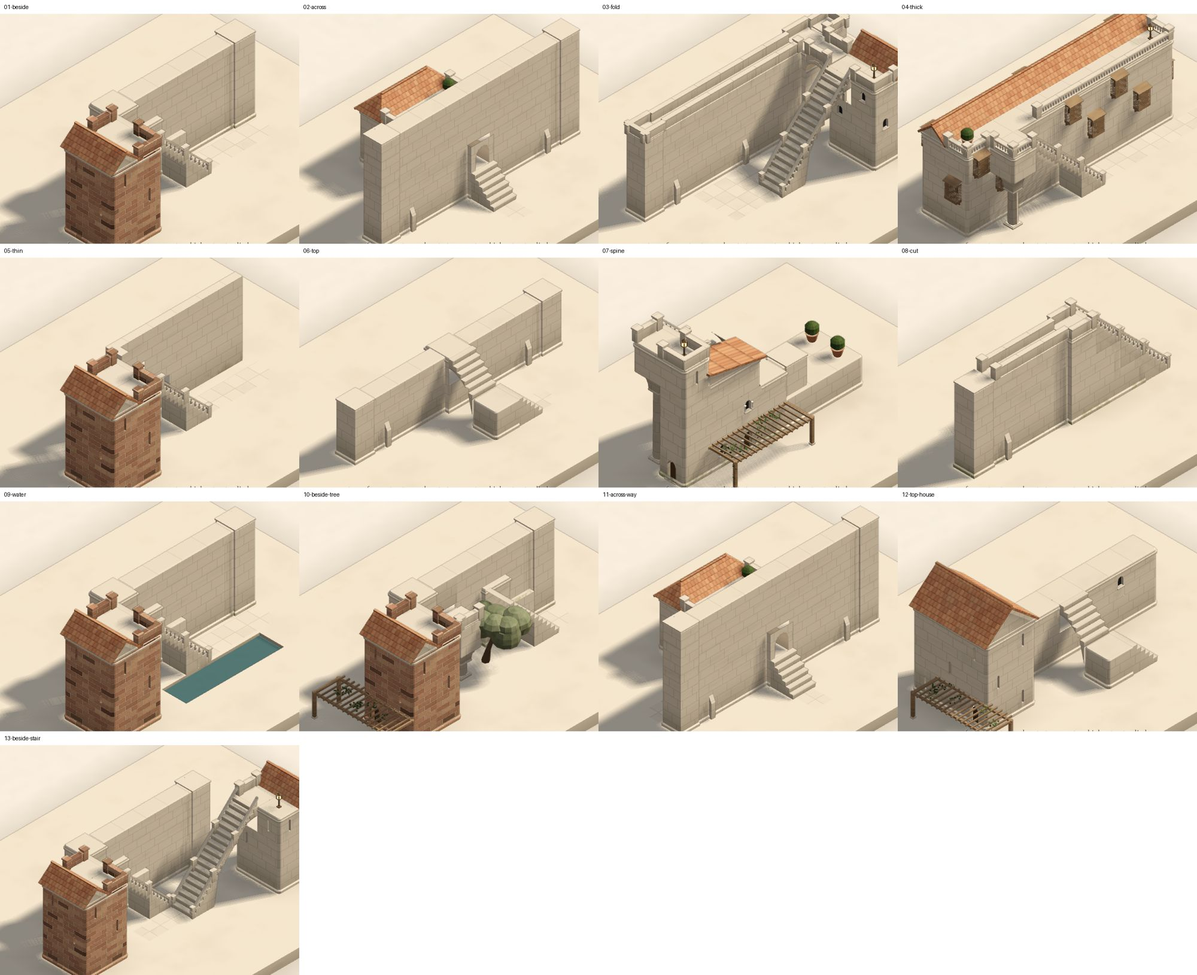
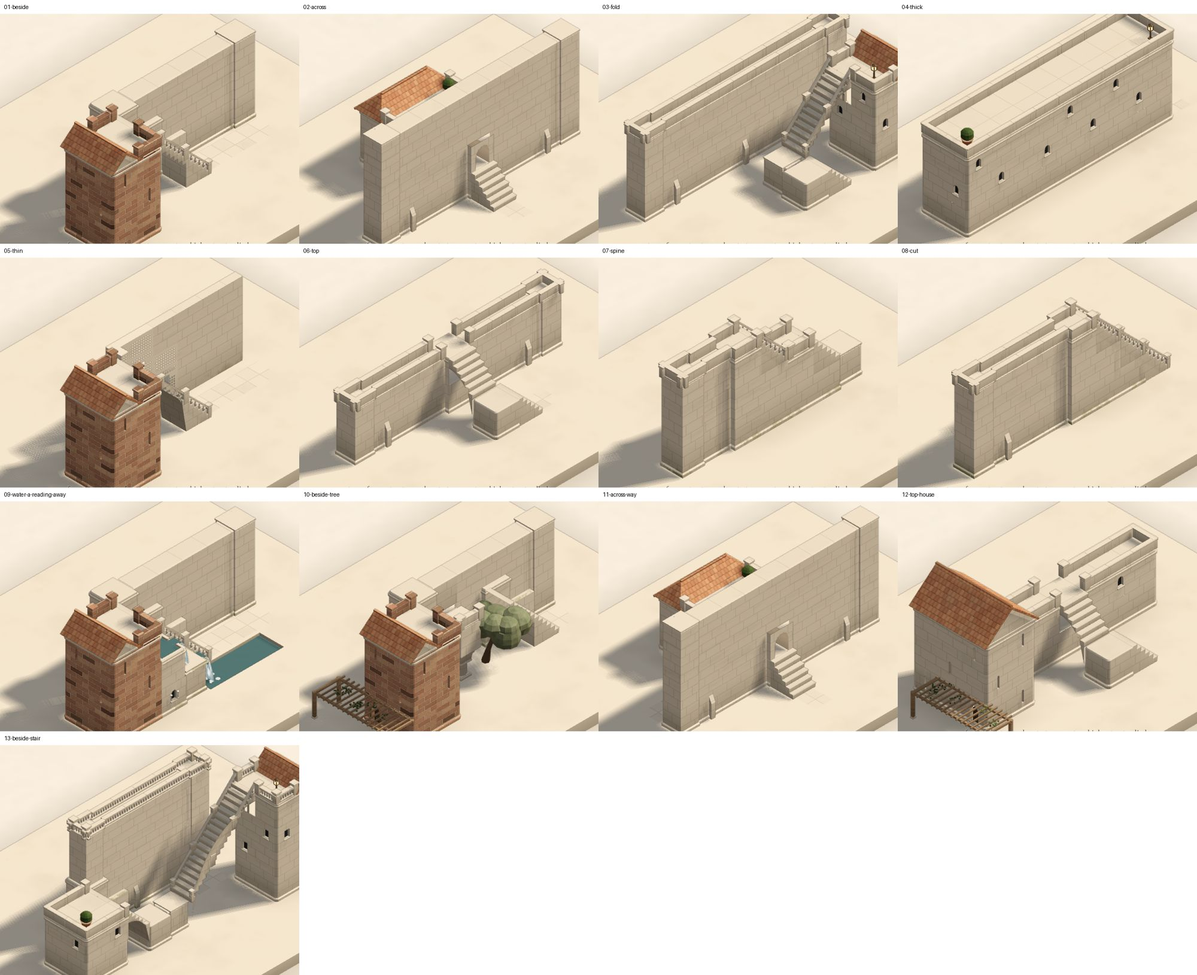
lab: wall x stair at its best: promenades, folds, dissolve, inside, water
Edge becomes surface: tops a way arrives on are promenades, walked along,
railed, a door where a house face meets them. Fold: a climb drawn folding
back that would be one flight is read as a switchback. Dissolve: a thin wall
carries no steps; beside a flight it's a screen. Inside implied: a stroke
over a house to its top goes in at a door and up inside (RULE.within). Water:
a new encounter, a flight beside water, a cascade of basins a reading away.
The atlas: 12 of 13 at their best as laid, the last a reading away.

Claude-Session: https://claude.ai/code/session_01D2Nx3PayKJtFYoab5A57H3

diff --git a/cells/lab/client/labyrinth/buildings.ts b/cells/lab/client/labyrinth/buildings.ts
@@ -29,7 +29,7 @@
  *   tower. Only on a plan that's a plain rectangle, for now. The hand can switch it (select), kept as a rule.
  */
 import { hash } from '../kit/rng';
-import { DIRS, RULE, isTower, key, unkey, type Cell, type World } from './model';
+import { DIRS, RULE, isTower, isWithin, key, unkey, type Cell, type World } from './model';
 import { navigate, standing, type Nav } from './nav';
 
 export type Roof = 'hipped' | 'gable' | 'shed' | 'dome';
@@ -80,7 +80,10 @@ function wingsOf(cols: Array<[number, number]>): Array<{ i0: number; i1: number;
   }
   return out;
 }
-export interface Buildings { list: Building[]; at: Map<string, Opening>; inside: Array<[Cell, Cell]>; of: Map<number, Building> }
+export interface Buildings { list: Building[]; at: Map<string, Opening>; inside: Array<[Cell, Cell]>; of: Map<number, Building>;
+  /** the raised tops a way the hand made arrives on, and what's walked on from there at its height (a wall's top become a
+   * promenade): places, by key */
+  promenade: Set<number> }
 
 const cache = new WeakMap<World, { v: number; b: Buildings }>();
 /** the buildings in a world (worked out once for each state of it) */
@@ -141,6 +144,11 @@ function find(w: World): Buildings {
   // (on the land, its ground at each column's own level)
   for (const v of nav.places) { const [k, i, j] = unkey(v); if (k === w.ground(i, j)) { ground.add(v); st.push(v); } }
   while (st.length) { const v = st.pop()!; for (const u of nav.next.get(v) ?? []) if (!ground.has(u)) { ground.add(u); st.push(u); } }
+  // (promenades: from where the hand's ways walk, up off the ground, on along the tops at that height (never down a
+  // stair or up one: a promenade is a level walk))
+  const promenade = new Set<number>(), pst: number[] = [];
+  for (const op of w.ops) if (!op.derived) for (const c of w.walks.get(op) ?? []) { const v = key(...c); if (c[0] > w.ground(c[1], c[2]) && nav.places.has(v) && !promenade.has(v)) { promenade.add(v); pst.push(v); } }
+  while (pst.length) { const v = pst.pop()!, [k] = unkey(v); for (const u of nav.next.get(v) ?? []) { const [ku, iu, ju] = unkey(u); if (ku === k && !promenade.has(u) && ku > w.ground(iu, ju) && w.stair(ku, iu, ju) < 0) { promenade.add(u); pst.push(u); } } }
   const chance = (p: number, ...n: number[]) => hash(w.seed, ...n) % 1000 < p * 1000;
   // (masses as a whole, whatever height each column of them reaches: one built across a slope, steps of it at
   // different heights, is read as stepping, each step a building of its own if the whole is deep)
@@ -199,12 +207,17 @@ function find(w: World): Buildings {
     // (its top: walked if a way arrives there from beyond it)
     const tops = cols.map(([x, z]) => key(h, x, z)).filter((v) => nav.places.has(v)), topSet = new Set(tops);
     // (a stair tower's top is always come to: that's what it's for, even where it's become part of what it climbs to)
-    const arrives = tops.some((v) => (nav.next.get(v) ?? []).some((u) => !topSet.has(u)) || served.has(v));
+    // (and one the hand climbs inside (`RULE.within`): its top walked, come to by its stair, its door where it was asked)
+    const within = cols.flatMap(([x, z]) => { const r = w.rules.get(key(baseOf(x, z), x, z)); return isWithin(r) ? [{ x, z, d: r! - RULE.within }] : []; });
+    const arrives = tops.some((v) => (nav.next.get(v) ?? []).some((u) => !topSet.has(u)) || served.has(v)) || within.length > 0;
     // (doors where ways arrive against its walls, at height)
     const placeAt = (c: Cell) => key(...c);
     // (above its own foot: a door from a way at height, or (set into a bank) from the hill above)
     // (not out onto another building's top: that's under its roof)
-    const upper = faces.filter((f) => f.plain && f.k > baseOf(f.i, f.j) && standing(w, ...f.out) && (!(anyH(f.out[1], f.out[2]) && height(f.out[1], f.out[2]) === f.k) || (!!stairTower && served.has(placeAt(f.out)))));
+    // (and onto a wall's top level with it only where that's walked, a promenade: never a door on to a wall that isn't)
+    const twoDeep = (x: number, z: number) => { const h = height(x, z); return [[1, 1], [1, -1], [-1, 1], [-1, -1]].some(([a, c]) => [[x + a, z], [x, z + c], [x + a, z + c]].every(([p, q]) => anyH(p, q) && height(p, q) === h)); };
+    const wallTop = (f: (typeof faces)[number]) => anyH(f.out[1], f.out[2]) && height(f.out[1], f.out[2]) === f.k && !twoDeep(f.out[1], f.out[2]);
+    const upper = faces.filter((f) => f.plain && f.k > baseOf(f.i, f.j) && standing(w, ...f.out) && (!(anyH(f.out[1], f.out[2]) && height(f.out[1], f.out[2]) === f.k) || (wallTop(f) && promenade.has(placeAt(f.out))) || (!!stairTower && served.has(placeAt(f.out)))));
     // (a stair inside, if a way at one of those doors, or on its top, can't be reached from the slab otherwise)
     const unreached = upper.some((f) => !ground.has(placeAt(f.out))) || (arrives && tops.some((v) => !ground.has(v)));
     const atFoot = faces.filter((f) => f.plain && foot(f) && standing(w, ...f.out) && ground.has(placeAt(f.out)));
@@ -220,7 +233,7 @@ function find(w: World): Buildings {
     }
     // (a way laid by hand that runs up to its foot, square on to the wall: a door where it arrives, never a blank face
     // (the tower landing of static/labyrinth-connective.md))
-    const landed = atFoot.filter((f) => w.passage(...f.out) === f.d % 2);
+    const landed = atFoot.filter((f) => w.passage(...f.out) === f.d % 2 || within.some((q) => q.x === f.i && q.z === f.j && q.d === f.d));
     for (const f of landed) if (!doors.includes(f)) doors.push(f);
     // (a house (its top not walked, so lived in under a roof) has a door at its foot too, as a rule; not one with a
     // passage through it: that's its way in)
@@ -307,5 +320,5 @@ function find(w: World): Buildings {
     const d = (f.d + 2) % 4, id = `${B[0]}.${B[1]}.${B[2]}.${d}`;
     if (!at.has(id)) at.set(id, { kind: 'door', style: 'arched', k: B[0], i: B[1], j: B[2], d });
   }
-  return { list, at, inside, of };
+  return { list, at, inside, of, promenade };
 }

diff --git a/cells/lab/client/labyrinth/gesture.ts b/cells/lab/client/labyrinth/gesture.ts
@@ -688,6 +688,22 @@ function way(w: World, h0: number, cells: Array<[number, number]>, to: Cell | nu
   // the other reading)
   if (!direct) {
     const roofs = roofed(w), over = path.slice(1).some(([i, j]) => roofs.has(`${i}.${j}`));
+    // (drawn over a house to its top: in at a door at its foot where the stroke meets it, up its stair inside, out on its
+    // top (which is a terrace then))
+    const house = to && over ? buildings(w).of.get(key(to[0] - 1, to[1], to[2])) : undefined;
+    if (house && to![0] === house.h) {
+      const mineH = new Set(house.cols.map(([x, z]) => `${x}.${z}`)), q = path.findIndex(([x, z]) => mineH.has(`${x}.${z}`));
+      const [ox, oz] = q > 0 ? path[q - 1] : [-1, -1], [hx, hz] = q > 0 ? path[q] : [-1, -1], d = DIRS.findIndex(([a, b]) => a === ox - hx && b === oz - hz);
+      if (q > 0 && d >= 0 && standing(w, w.ground(ox, oz), ox, oz)) {
+        const base = house.base[house.cols.findIndex(([x, z]) => x === hx && z === hz)];
+        const rule: Op['rule'] = [[base, hx, hz, RULE.within + d]];
+        const up = q > 1 ? way(w, h0, path.slice(0, q), null, now, resting, true) : null;
+        const approach: Op = up && !('refused' in up) ? { ...up, alts: undefined } : { pave: [[ox, oz]], born: now, why: 'way' };
+        const label = 'in at a door, up its stair inside, out on its top';
+        const inside: Op = { ...approach, rule: [...(approach.rule ?? []), ...rule], note: `a way: ${label}`, reading: label, why: 'way' };
+        return { ...mark(inside, 'within'), alts: [{ label: 'the way as drawn, joining what it meets', op: { ...op, note, reading: note } }] };
+      }
+    }
     if (!r?.reached || over) {
       // (round it within a cell of the stroke: where the hand drew, still; further round than that is another place, so
       // it's offered, not built)
@@ -704,8 +720,12 @@ function way(w: World, h0: number, cells: Array<[number, number]>, to: Cell | nu
       }
     }
   }
-  // (too steep for a flight along it: folded back beside it, a switchback, still a way; else a stair tower)
-  const sw = !r?.reached && dest[0] > h0 ? switchback(w, h0, [...path, [dest[1], dest[2]]], dest, now) : null;
+  // (too steep for a flight along it: folded back beside it, a switchback, still a way; else a stair tower. And drawn
+  // folding back on itself, climbing: the fold's the hand's, so both legs climb, sharing a landing at the turn)
+  // (only where, followed as drawn, it climbs in one flight, the fold flattened: drawn climbing both ways, as drawn)
+  const oneFlight = new Set((r?.cells ?? []).map((c) => sim.flight(...c)?.f).filter(Boolean)).size <= 1;
+  const folded = folds([...path, [dest[1], dest[2]]]) && dest[0] - h0 >= 2 && oneFlight;
+  const sw = (!r?.reached || folded) && dest[0] > h0 ? switchback(w, h0, [...path, [dest[1], dest[2]]], dest, now) : null;
   const lad = dest[0] > h0 ? ladder(w, h0, [...path, [dest[1], dest[2]]], dest, now) : null;
   const light = [...(lad ? [{ label: 'a ladder', op: lad }] : []), ...(tower ? [{ label: 'a stair tower', op: tower }] : [])];
   if (sw) return { ...mark(sw, 'switchback'), alts: [{ label: 'the way as drawn, joining what it meets', op: { ...op, note, reading: note } }, ...light, ...alts] };
@@ -930,6 +950,20 @@ export function stairTower(w: World, h0: number, cells: Array<[number, number]>,
  * setting has it (model.ts `carry`): the upper leans from the landing to the top it climbs to; the lower springs from the
  * ground to the landing. Its foot is beside the destination's face, on the ground. Null where one won't fit.
  */
+/** whether a stroke folds back on itself: a run one way, a cell or two across, and a run back the other way */
+function folds(cells: Array<[number, number]>): boolean {
+  const dirs: number[] = [];
+  for (let q = 1; q < cells.length; q++) dirs.push(DIRS.findIndex(([a, b]) => a === cells[q][0] - cells[q - 1][0] && b === cells[q][1] - cells[q - 1][1]));
+  for (let q = 0; q < dirs.length; q++) {
+    let a = q; while (a + 1 < dirs.length && dirs[a + 1] === dirs[q]) a++;
+    if (a - q < 1) continue;
+    let b = a + 1; while (b < dirs.length && b - a <= 2 && dirs[b] !== (dirs[q] + 2) % 4) b++;
+    if (b >= dirs.length || dirs[b] !== (dirs[q] + 2) % 4 || b === a + 1) continue;
+    let c = b; while (c + 1 < dirs.length && dirs[c + 1] === dirs[b]) c++;
+    if (c - b >= 1) return true;
+  }
+  return false;
+}
 export function switchback(w: World, h0: number, cells: Array<[number, number]>, to: Cell, now: number): Op | null {
   const H = to[0], N = H - h0, e = cells[cells.length - 2];
   if (N < 2 || !e) return null;

diff --git a/cells/lab/client/labyrinth/encounters.ts b/cells/lab/client/labyrinth/encounters.ts
@@ -380,8 +380,58 @@ const flightMeetsTerrace: Rule = {
   },
 };
 
+/**
+ * A flight of the hand's with a pool of its at its foot, beside it: water and a dry stair that could climb together.
+ * The ladder: apart (the restrained answer); a cascade beside the flight, a basin level with each step from the second
+ * up, each spilling into the one below and the lowest into the pool (a water stair); and a lantern at its head.
+ */
+const flightBesideWater: Rule = {
+  id: 'flight-beside-water',
+  find(w) {
+    const out: Found[] = [], at = new Map<number, number>(), seen = new Set<number>();
+    w.ops.forEach((op, n) => { for (const c of [...(w.reached.get(op)?.cells ?? []), ...(op.stairs ?? []).map((s) => [s[0], s[1], s[2]] as Cell)]) if (!at.has(key(...c))) at.set(key(...c), n); });
+    const pond = (i: number, j: number) => w.ops.findIndex((o) => !o.derived && (o.pools ?? []).some(([x, z]) => x === i && z === j));
+    for (const f of w.flights) {
+      const by = at.get(key(...f.cells[f.cells.length - 1])) ?? at.get(key(...f.cells[0])) ?? -1;
+      if (by < 0 || w.ops[by].derived || f.cells.length < 2) continue;
+      const [a, b] = DIRS[f.d], [k0, i0, j0] = f.cells[0];
+      for (const s of [(f.d + 1) % 4, (f.d + 3) % 4]) {
+        const [sa, sb] = DIRS[s];
+        // (the pool: beside the foot, or a cell or two before it, on that side)
+        const P = [0, 1, 2].map((q) => [i0 + sa - a * q, j0 + sb - b * q] as [number, number]).find(([x, z]) => w.pool(x, z) && pond(x, z) >= 0);
+        if (!P || seen.has(key(0, ...P))) continue;
+        // (a basin beside each step from the second up, on a column of stone, at the step's level; the first, a pool)
+        const add: Array<[number, number, number, number]> = [], basins: Array<[number, number, number, number]> = [], pools: Array<[number, number, number]> = [];
+        let ok = true;
+        const born = w.ops[by].born ?? 0;
+        f.cells.forEach(([k, i, j], q) => {
+          const x = i + sa, z = j + sb, g = w.ground(x, z);
+          if (!inGrid(x, z) || w.claim(g, x, z) === 'passage' || w.way(g, x, z)) { ok = false; return; }
+          if (w.pool(x, z)) return;
+          for (let kk = g; kk <= k; kk++) if (w.occupied(kk, x, z) || w.tree(kk, x, z)) ok = false;
+          if (k === g) pools.push([x, z, born]);
+          else { for (let kk = g; kk < k; kk++) add.push([kk, x, z, born]); basins.push([k, x, z, born]); }
+        });
+        if (!ok || basins.length < 2) continue;
+        seen.add(key(0, ...P));
+        const H = f.cells[f.cells.length - 1], A: Cell = [H[0] + 1, H[1] + a, H[2] + b];
+        const cascade: Op = { add, basins, pools };
+        out.push({
+          rule: this.id, name: 'a flight beside water', where: 'beside the flight', anchor: [k0, i0 + sa, j0 + sb], cells: [[0, ...P], f.cells[0], A], by: [by, pond(...P)].sort((p, r) => p - r), insists: (o) => !!o.connect || !!o.pools?.length,
+          candidates: [
+            { level: 0, label: 'the stair and the water apart', verbs: ['separate'], op: {} },
+            { level: 1, label: 'a cascade beside the stair, a basin at each step, falling to the pool', verbs: ['merge', 'step'], op: cascade },
+            { level: 2, label: 'the cascade, a lantern at its head', verbs: ['merge', 'step', 'frame'], op: { ...cascade, ...lantern(A) } },
+          ],
+        });
+      }
+    }
+    return out;
+  },
+};
+
 /** every rule, in the order they're resolved (a later one never lays where an earlier one has) */
-export const RULES: Rule[] = [waysMeet, levelApart, waysCross, wayEnds, flightMeetsWall, wayMeetsTree, flightMeetsTerrace];
+export const RULES: Rule[] = [waysMeet, levelApart, waysCross, wayEnds, flightMeetsWall, wayMeetsTree, flightMeetsTerrace, flightBesideWater];
 
 // ─── resolving them ───
 

diff --git a/cells/lab/client/labyrinth/model.ts b/cells/lab/client/labyrinth/model.ts
@@ -97,7 +97,7 @@ export interface Op {
 }
 /** readings of the rules' work a hand can switch to: an arch read as a lintel, a pier asked for; a building's roof (none, or
  * which kind), kept at the lowest cell of its top */
-export const RULE = { none: 0, lintel: 1, pier: 2, colonnade: 3, arch: 4, noPier: 5, noRoof: 10, hipped: 11, gable: 12, shed: 13, dome: 14, tower: 20, solid: 30, rampant: 31, hung: 32 } as const;
+export const RULE = { none: 0, lintel: 1, pier: 2, colonnade: 3, arch: 4, noPier: 5, noRoof: 10, hipped: 11, gable: 12, shed: 13, dome: 14, tower: 20, solid: 30, rampant: 31, hung: 32, within: 40 } as const;
 
 /**
  * How a flight is carried. Worked out from its setting (the hand can choose another, kept at its foot: `RULE.solid`,
@@ -150,6 +150,9 @@ export const PLANT = { cypress: 0, shrub: 1, hedge: 2, olive: 3, pine: 4, vine: 
 /** how many levels of a plant's cell (and over it) its trunk or body takes, and how high it reaches */
 export const PLANT_TALL = [2, 1, 1, 2, 4, 1];
 export const isTower = (r: number | undefined) => r !== undefined && r >= RULE.tower && r < RULE.tower + 4;
+/** a house climbed inside (the rule kept at a cell of its foot, `RULE.within` + the way its door faces): a door there,
+ * its stair inside, out on its top */
+export const isWithin = (r: number | undefined) => r !== undefined && r >= RULE.within && r < RULE.within + 4;
 /** dressing: three stones (travertine is the stone's own), then what's on it */
 export const DRESS = { travertine: 0, brick: 1, marble: 2, moss: 3, ivy: 4, parapet: 5, lantern: 6, pot: 7, balustrade: 8, jali: 9, pergola: 10, mashrabiya: 11, colonnettes: 12, seat: 13, gap: 14 } as const;
 /** a cell's dressing: each part set (by the hand, or by the rules' own dressing, character.ts) or not; a part set off
@@ -883,7 +886,9 @@ export class World {
       // (a passage the hand made under it: never filled)
       const passageUnder = loose.some(([kk, x, z]) => { for (let q = this.ground(x, z); q < kk; q++) if (this.passages.has(key(q, x, z))) return true; return false; });
       // (a wall beside every step over nothing: the same side for all, if there is one)
-      const sideOf = (c: Cell) => [(s.d + 1) % 4, (s.d + 3) % 4].filter((q) => solidAt(c[0], c[1] + DIRS[q][0], c[2] + DIRS[q][1]));
+      // (a thin wall can't carry steps cantilevered out of it: beside one, the flight stands free, and the wall becomes
+      // a screen beside it (character.ts))
+      const sideOf = (c: Cell) => [(s.d + 1) % 4, (s.d + 3) % 4].filter((q) => solidAt(c[0], c[1] + DIRS[q][0], c[2] + DIRS[q][1]) && !this.thin.has(key(c[0], c[1] + DIRS[q][0], c[2] + DIRS[q][1])));
       const common = [(s.d + 1) % 4, (s.d + 3) % 4].find((q) => loose.every((c) => sideOf(c).includes(q)));
       const hangs = loose.length > 0 && loose.every((c) => sideOf(c).length > 0);
       // (beside the land's bank, not a wall: built up solid against it, a retaining stair, not hung out of the earth)

diff --git a/cells/lab/client/labyrinth/mesh.ts b/cells/lab/client/labyrinth/mesh.ts
@@ -1412,6 +1412,9 @@ export function parapets(w: World, plain = false) {
   const dressed = (k: number, i: number, j: number) => look(w, k, i, j, plain);
   const edges = new Map<number, boolean[]>(), rails = new Map<number, number>(), flowRails = new Map<number, number>(), roofed = new Set<number>();
   for (const b of buildings(w).list) for (const [x, z] of underRoof(b)) roofed.add(key(b.h - 1, x, z));
+  const prom = buildings(w).promenade;
+  /** a top a cell across at its height (a wall's, a wall-like step of a house): not part of something two deep there */
+  const narrow = (k: number, i: number, j: number) => ![[1, 1], [1, -1], [-1, 1], [-1, -1]].some(([a, b]) => w.stone(k, i + a, j) && w.stone(k, i, j + b) && w.stone(k, i + a, j + b) && !w.stone(k + 1, i + a, j) && !w.stone(k + 1, i, j + b));
   for (const v of [...w.mass.keys()]) {
     const [k, i, j] = unkey(v), d = dressed(k, i, j), sp = w.span(k, i, j);
     // (not on a thin wall: it's too thin to carry one)
@@ -1422,7 +1425,9 @@ export function parapets(w: World, plain = false) {
     // (and along a way the hand laid to be walked two levels up or more, whatever carries it: railed as it was laid,
     // not as the arches under it happen to fall)
     const walkedHigh = !colonnade && w.passage(k + 1, i, j) >= 0 && k + 1 - w.ground(i, j) >= 2 && w.archway(k + 1, i, j) < 0;
-    const bridge = (!!sp && k >= 1 && (sp.n >= 3 || k >= 2 || w.bridge(k, i, j))) || colonnade || walkedHigh;
+    // (and a wall's top a way arrives on, walked along as a promenade, two levels up or more: railed both sides)
+    const promenade = !colonnade && !walkedHigh && narrow(k, i, j) && prom.has(key(k + 1, i, j)) && k + 1 - w.ground(i, j) >= 2;
+    const bridge = (!!sp && k >= 1 && (sp.n >= 3 || k >= 2 || w.bridge(k, i, j))) || colonnade || walkedHigh || promenade;
     if (!d?.parapet && !bridge) continue;
     // (on a flowing wall, round its curve or along its diagonal)
     if (w.block(k, i, j) && outline(w, k, i, j).flow) { flowRails.set(v, d?.parapet && d.rail ? d.rail : DRESS.parapet); continue; }

diff --git a/cells/lab/client/labyrinth/character.ts b/cells/lab/client/labyrinth/character.ts
@@ -140,10 +140,12 @@ function dressUp(w: World): Map<number, Dress> {
       for (const c of region) put(c, { parapet: true, rail });
     }
   }
-  // (thin walls beside a court, now and then a jali, a stretch at a time)
+  // (thin walls beside a court, now and then a jali, a stretch at a time; and beside a flight, always, from its foot up:
+  // the wall dissolves into a screen beside the stair, light through it on the steps)
   for (const v of w.thin.keys()) {
     const [k, i, j] = unkey(v);
-    if (DIRS.some(([a, b]) => w.courts.has(key(0, i + a, j + b))) && chance(0.45, Math.floor(i / 3), Math.floor(j / 3), k, 12)) put([k, i, j], { screen: true });
+    const byFlight = DIRS.some(([a, b]) => { for (let q = k; q >= Math.max(0, k - 1); q--) if (w.stair(q, i + a, j + b) >= 0) return true; return false; });
+    if (byFlight || (DIRS.some(([a, b]) => w.courts.has(key(0, i + a, j + b))) && chance(0.45, Math.floor(i / 3), Math.floor(j / 3), k, 12))) put([k, i, j], { screen: true });
   }
   // (houses: mashrabiya at the upper windows; colonnettes where the windows are arched; a pergola where a door gives on a court)
   const kept = new Set(w.decor.map((d) => key(0, d.i, d.j)));

diff --git a/cells/lab/static/labyrinth-atlas.md b/cells/lab/static/labyrinth-atlas.md
@@ -23,33 +23,33 @@ That's generous, so each case also names what it would be **at its best** and ch
 | Case | At its best | What it is now | Best? |
 |---|---|---|---|
 | **beside**: up beside a wall to a terrace past its end | cantilevered steps hung from the wall | a flight hung from the wall | ✓ |
-| **across**: up across a wall to a terrace beyond | the stair through the wall | a gate through the wall's foot, the flight beyond it | ✓ |
-| **fold**: folding back against a wall | two flights, a shared landing, a door in the wall | one straight flight; the fold drawn is lost | · |
-| **thick**: up a wall two cells thick | the stair contained in its thickness | a house (two deep is a building); the way goes round it | · |
-| **thin**: beside a thin wall | the thin wall a screen beside an exposed stair | hung from it, the wall unchanged | · |
-| **top**: up to a long wall's top | the wall a promenade, walked, railed | a flight up to it; the top not railed | · |
-| **spine**: along a wall that steps up | a stepped spine, its top a stair | read as a tower and roofs; routed round | · |
-| **cut**: from the ground along a wall's length to its top | steps cut into the wall, out on its top | steps cut into the wall, out on its top | ✓ |
-| **water**: beside a wall, pools at its foot | dry stair and cascade sharing the wall | the pools ignored | · |
+| **across**: up across a wall taller than the terrace beyond | the stair through the wall | climbs to a gate in the wall, the way on through it | ✓ |
+| **fold**: a climb drawn folding back against a wall | two flights, a shared landing | a switchback: two flights, a landing at the turn | ✓ |
+| **thick**: up a mass two cells thick (a house) | the stair inside it | in at a door at its foot, up its stair inside, out on its top (a terrace now) | ✓ |
+| **thin**: beside a thin wall | a screen beside an exposed stair | the flight stands free (a thin wall carries no steps), the wall a jali beside it | ✓ |
+| **top**: up to a long wall's top | the wall a promenade | walked along its top, railed both sides | ✓ |
+| **spine**: along a wall that steps up | a stepped spine, its top a stair | walked up its top, a step at each rise | ✓ |
+| **cut**: from the ground along a wall's length to its top | steps cut into the wall | steps cut into the wall, out on its top | ✓ |
+| **water**: beside a wall, pools at its foot | a dry stair and a cascade | apart, as laid; **a reading away**, a cascade of basins beside the stair falling to the pool | ○ |
 | **beside + tree** | the stair yields round the tree | passes it, hung from the wall | ✓ |
-| **across + way** (a way along the far side) | through the wall, landing on the way | through the wall's foot | ✓ |
-| **top + house** | the wall-top promenade arrives at a door in the house | a flight up; no door at that level | · |
-| **beside + stair** (a second, the other way) | the two interlock, one landing shared | a second long flight, apart | · |
+| **across + way** (a way along the far side) | through the wall, landing on the way | through the gate on to it | ✓ |
+| **top + house** | the promenade arriving at a door in the house | walked, railed, an arched door in the house's face there (the wall itself read as an inhabited step of the house, windows in it) | ✓ |
+| **beside + stair** (a second from the first's terrace, back the other way) | the two interlock, one landing shared | the terrace their landing, a switchback against the wall | ✓ |
 
-**5 of 13 at their best** (2 of 12 before this round).
+**12 of 13 at their best as laid, the last a reading away** (2 of 12 at the start).
 
-## What the misses need: capabilities, not pieces
+## The capabilities, built
 
-| Capability (Astra's terms) | Cases it would turn | Status |
+| Capability (Astra's terms) | What it is in the model | Cases |
 |---|---|---|
-| **Penetrate / thickness**: a way may pass through the hand's stone, climbing; the stone over it kept as an arch, or opened to the sky where it can't span | across, across + way, cut | **built**: a step carved into the hand's stone with its headroom (`World.carved`), dearer than any open step so only strokes drawn over or through stone use it; a level way through stone a cell to three thick opens a gate, now preferred over climbing over |
-| **Edge becomes surface** (exchange roles): a top arrived on is walked as it is, railed as a promenade; met by a house face at that level, a door | top, top + house, spine | begun: walking on the hand's existing tops now costs almost nothing (it lays nothing), so ways use them; rails and doors to come |
-| **Fold / interlock**: a drawn fold kept; two flights sharing a landing; a door at the landing | fold, beside + stair | next |
-| **Inside implied**: two-deep stone a building, entered and climbed inside when a stroke ends on its top | thick | next |
-| **Dissolve**: a thin wall beside an exposed stair becomes a screen | thin | small |
-| **Water with levels**: a cascade beside a dry stair, sharing the retaining wall | water | larger |
+| **Penetrate / thickness** | a way's step can be carved into the hand's stone where the stroke's drawn over or through it, headroom cut, the stone over it kept as an arch or opened to the sky where it can't span (`World.carved`); a level way through stone a cell to three thick opens a gate, preferred to climbing over | across, across + way, cut |
+| **Edge becomes surface** (exchange roles) | walking the hand's existing tops lays nothing, so costs almost nothing; a top a way arrives on is a **promenade** (`Buildings.promenade`): walked on along it at that height, railed both sides where it's a cell across and two up; a house face met at that height gets a door | top, top + house, spine |
+| **Fold / interlock** | a climb drawn folding back on itself, that followed as drawn would climb in one flight, is read as a switchback; a terrace a flight arrives on is the next one's landing | fold, beside + stair |
+| **Inside implied** | a stroke drawn over a house to its top: in at a door where the stroke meets it, up its stair inside, out on its top (`RULE.within`, kept at its foot) | thick |
+| **Dissolve** | a thin wall carries no cantilevered steps; beside a flight it becomes a screen (the rules' dressing) | thin |
+| **Water with levels** | an encounter, a flight beside water (`flight-beside-water`): apart, or a cascade of basins at each step falling to the pool, or that with a lantern at its head | water |
 
-The order follows the count of cases each turns, and how many other pairings it would reach: **yield** (notch, bow, step back) and **edge becomes surface** recur across stair × terrace, roof × tree, building × well and parapet × arrival, so they compound.
+Still to come of the first list: **yield** (notch, bow, step back), the one most likely to compound across other pairings.
 
 ## Next pairings
 
